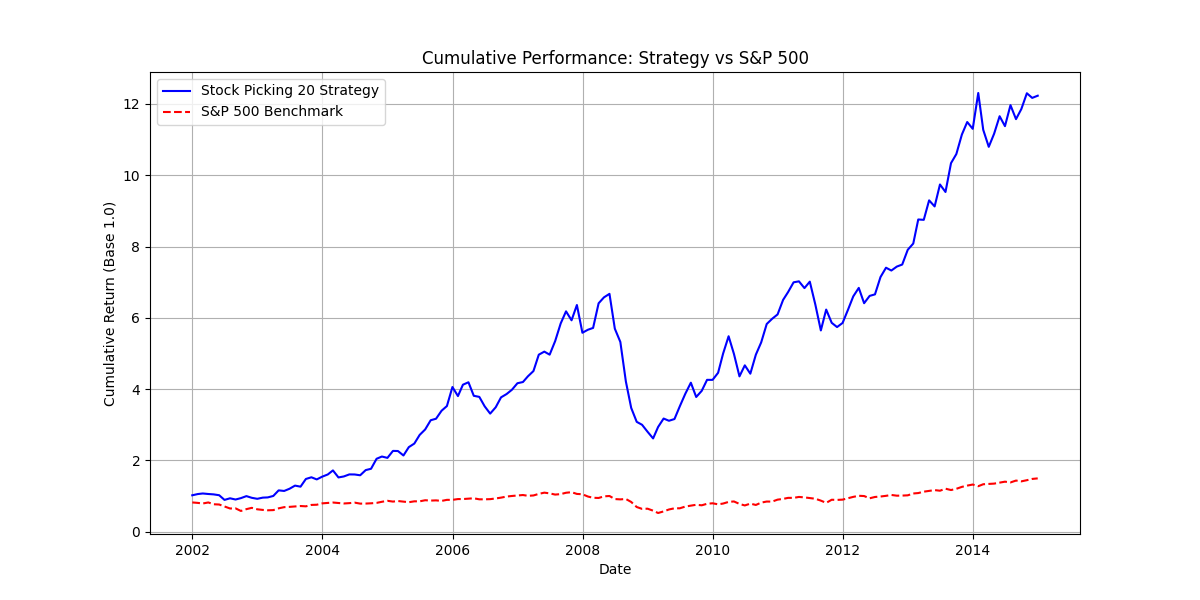
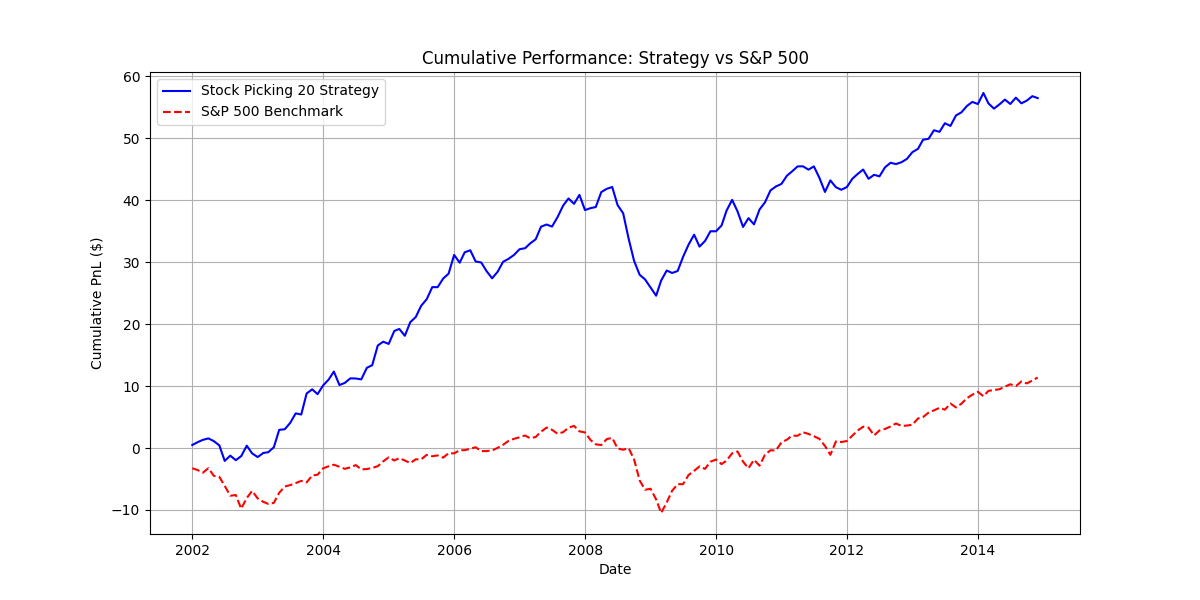
fixes in backtester ..

diff --git a/scripts/backtester.py b/scripts/backtester.py
@@ -1,48 +1,54 @@
 import pandas as pd
 import matplotlib.pyplot as plt
+import os
 
 def backtest(prices, sp500):
-    # Calcul du PnL par action
-    ## relation => Signal (True/False) * Rendement Futur
+    # PnL per stock: Signal (True/False) * Future Return
     prices['pnl'] = prices['signal'] * prices['monthly_future_return']
 
-    # Rendement mensuel : Moyenne des 20 actions
-    ### On divise par 20 car on a investi 1/20eme de notre capital dans chaque action
-    strategy_perf = prices.groupby('Date')['pnl'].sum() / 20
+    # Strategy return: sum of PnL / sum of signals (as per instructions)
+    strategy_pnl  = prices.groupby('Date')['pnl'].sum()
+    strategy_return = strategy_pnl / prices.groupby('Date')['signal'].sum()
+    print(prices.groupby('Date')['signal'].sum())
 
-    # C'est la somme de tous les gains/pertes mensuels
-    total_pnl_value = strategy_perf.sum()
-    print(total_pnl_value)
+    # SP500 benchmark: $20 invested each month
+    sp500_pnl = 20 * sp500['sp500_return']
 
-    # Calcul des rendements cumulés (Compound Returns)
-    ## (1 + r).cumprod() => simuler la croissance de 1$
-    cum_strategy = (1 + strategy_perf).cumprod()
-    cum_sp500 = (1 + sp500['sp500_return']).cumprod()
+    # Cumulative PnL using cumsum (as per instructions)
+    cum_strategy = strategy_pnl.cumsum()
+    cum_sp500 = sp500_pnl.cumsum()
 
-    # pour la comparaison
+    # Align on common dates
     common_dates = cum_strategy.index.intersection(cum_sp500.index)
     cum_strategy = cum_strategy.loc[common_dates]
     cum_sp500 = cum_sp500.loc[common_dates]
 
+    # Total returns
+    total_return_strat  = strategy_return.sum()
+    total_return_sp500  = (sp500_pnl.sum()) / (20 * len(sp500_pnl))
 
-    total_return_strat = (cum_strategy.iloc[-1] - 1) * 100
-    total_return_sp500 = (cum_sp500.iloc[-1] - 1) * 100
-
+    # Save results
+    os.makedirs("results", exist_ok=True)
     with open("results/results.txt", "w") as f:
-        f.write(f"Strategy Total PnL (Sum): {total_pnl_value:.2f}%\n")
-        f.write(f"Total Return Strategy: {total_return_strat:.2f}%\n")
-        f.write(f"Total Return S&P 500: {total_return_sp500:.2f}%\n")
+        f.write("Backtesting Performance Report\n")
+        f.write("==============================\n")
+        f.write(f"Strategy Total PnL:        ${cum_strategy.iloc[-1]:.2f}\n")
+        f.write(f"S&P 500 Total PnL:         ${cum_sp500.iloc[-1]:.2f}\n")
+        f.write(f"Strategy Total Return:     {total_return_strat*100:.2f}%\n")
+        f.write(f"S&P 500 Total Return:      {total_return_sp500*100:.2f}%\n")
 
-    # Graph
+    # Plot
+    os.makedirs("results/plots", exist_ok=True)
     plt.figure(figsize=(12, 6))
     plt.plot(cum_strategy, label='Stock Picking 20 Strategy', color='blue')
-    plt.plot(cum_sp500, label='S&P 500 Benchmark', color='red', linestyle='--')
+    plt.plot(cum_sp500,    label='S&P 500 Benchmark',         color='red', linestyle='--')
     plt.title("Cumulative Performance: Strategy vs S&P 500")
     plt.xlabel("Date")
-    plt.ylabel("Cumulative Return (Base 1.0)")
+    plt.ylabel("Cumulative PnL ($)")
     plt.legend()
     plt.grid(True)
     plt.savefig("results/plots/performance_comparison.png")
     plt.close()
 
-    print("image saved in /results 😁")
+    print("Results saved in results/results.txt")
+    print("Plot saved in results/plots/performance_comparison.png")

diff --git a/scripts/preprocessing.py b/scripts/preprocessing.py
@@ -39,7 +39,7 @@ def preprocessing(prices, sp500):
     prices['Price'] = prices.groupby('Ticker')['Price'].ffill()
     
     prices['monthly_past_return'] = prices.groupby('Ticker')['monthly_past_return'].ffill()
-    prices['monthly_future_return'] = prices.groupby('Ticker')['monthly_future_return'].ffill()
+    # prices['monthly_future_return'] = prices.groupby('Ticker')['monthly_future_return'].ffill()
 
     prices = prices.dropna()
     
